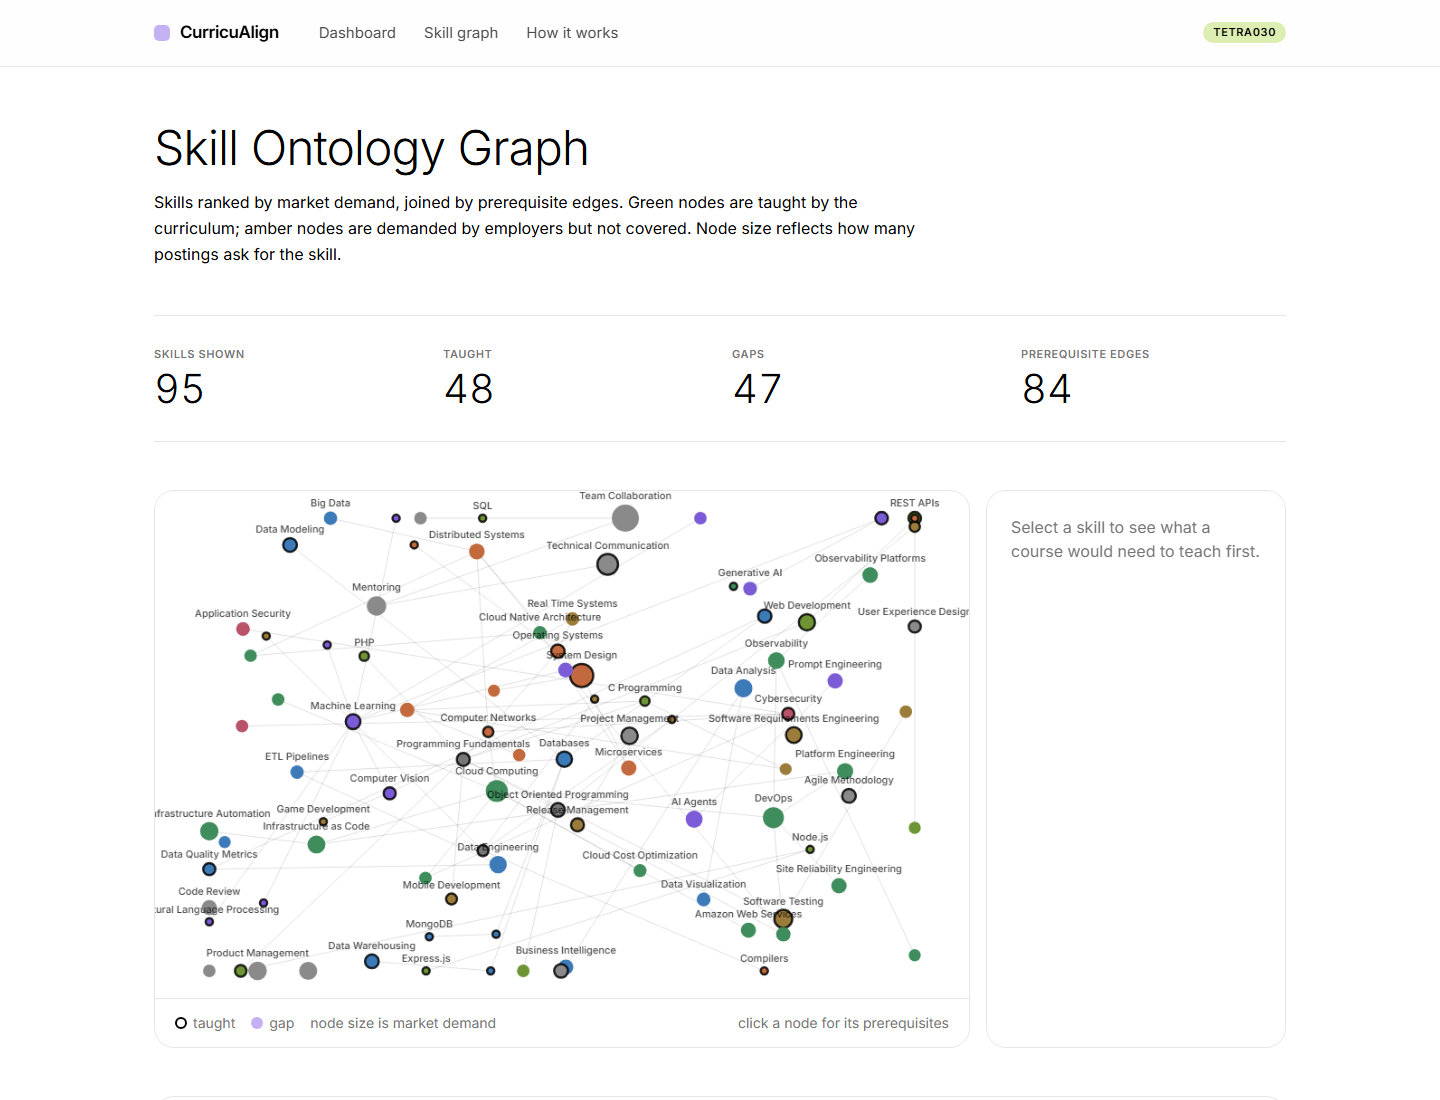
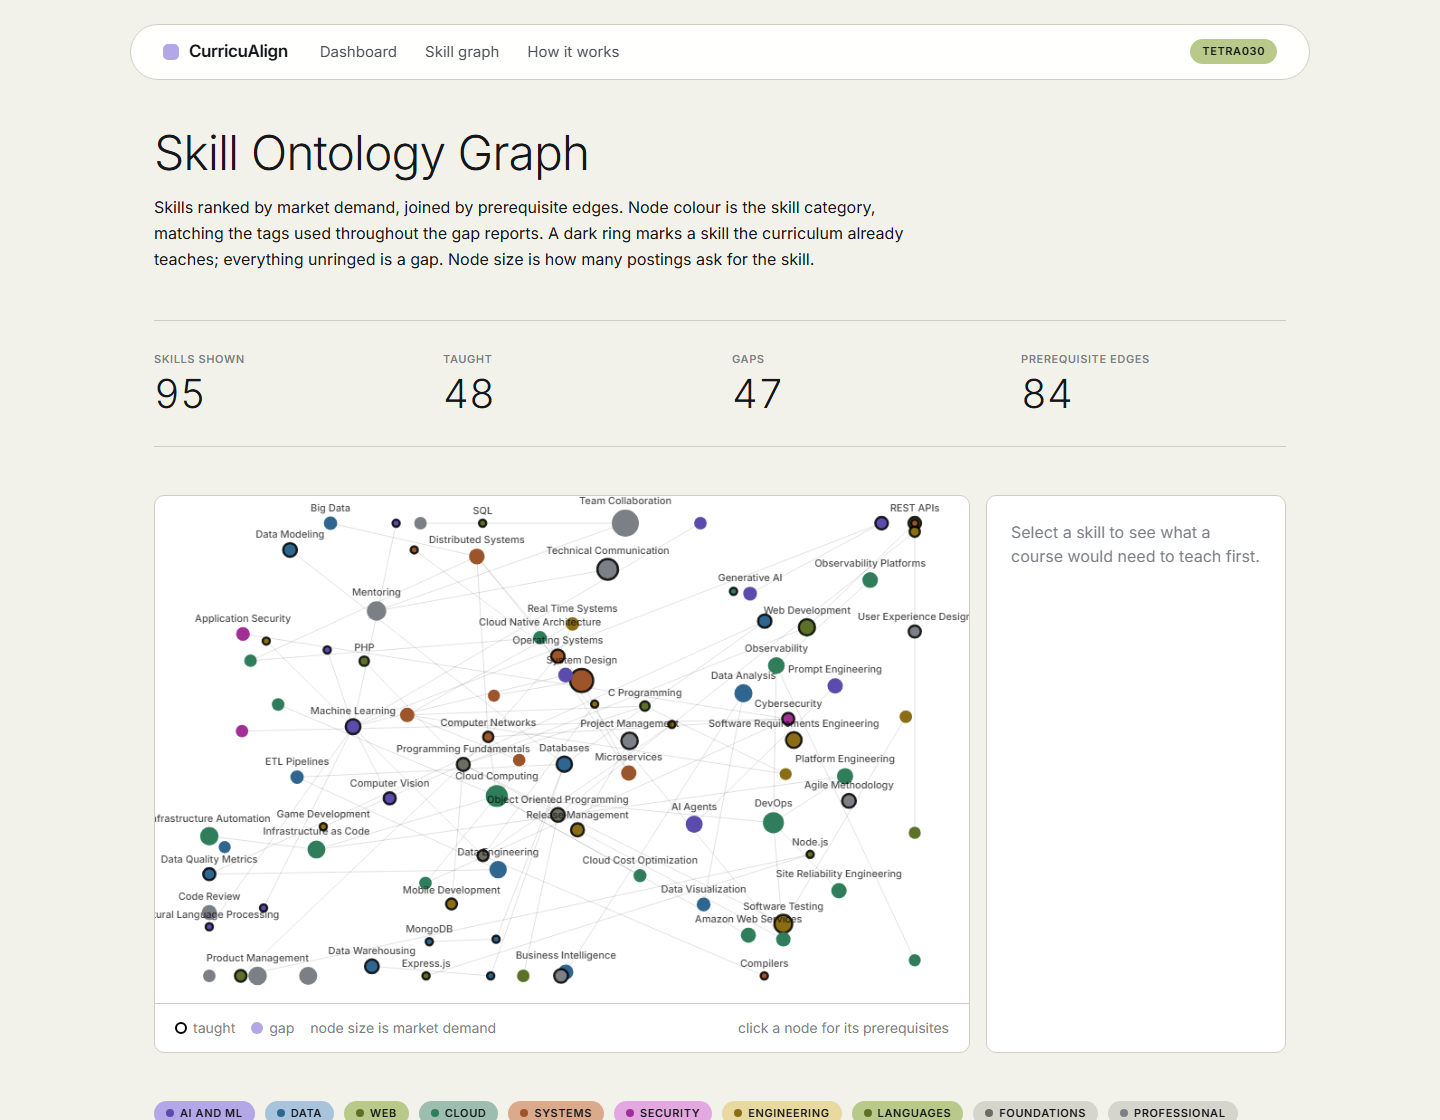
TETRA030: Refresh README with real results and current screenshots
Screenshots were captured before the palette and scoring changes and no
longer matched the running application. All four are recaptured.

The README now leads with results from the real curriculum: eight MSU
Baroda BCA syllabi scored against 150 job postings, with the full ranking
from Web Application Development at 50.0 down to the programme-level
outcome document at 7.8.

Adds a section explaining what the alignment score measures and why the
denominator is a course's own subject area rather than the whole market,
since a score out of 100 against total tech demand would imply a failing
grade for every course ever written.

Every figure was checked against the data before committing: skill,
alias, and edge counts against the taxonomy file, posting count against
the snapshot, and course scores against the live API.

diff --git a/README.md b/README.md
@@ -23,9 +23,34 @@ A keyword diff reports that a syllabus lacks Retrieval Augmented Generation. Tha
 | 3 | Data Structures, Deep Learning |
 | 4 | Machine Learning, Optimization, Programming Fundamentals |
 
-So a recommendation becomes *"you cannot teach RAG until this chain is covered, in this order"* rather than *"you are missing RAG"*. Adding Kubernetes to a course already teaching Docker is one hop and cheap; adding RAG to a course covering none of its prerequisites is a different conversation entirely.
+A recommendation becomes *"you cannot teach RAG until this chain is covered, in this order"* rather than *"you are missing RAG"*. Adding Kubernetes to a course already teaching Docker is one hop and cheap; adding RAG to a course covering none of its prerequisites is a different conversation entirely.
 
-That distinction is also the answer to **why a graph database**: it is a variable-length path search, which a relational schema answers only with a recursive query that degrades with every hop.
+That is also the answer to **why a graph database**: it is a variable-length path search, which a relational schema answers only with a recursive query that degrades with every hop.
+
+---
+
+## Audited against a real curriculum
+
+Eight actual BCA course syllabi from The Maharaja Sayajirao University of Baroda, compared against 150 real job postings.
+
+| Alignment | Course | Teaches | Gaps |
+|---|---|---|---|
+| 50.0 | Web Application Development | 10 | 73 |
+| 22.8 | Oracle DBA | 8 | 70 |
+| 22.7 | Artificial Intelligence | 13 | 71 |
+| 19.7 | Software Engineering 2 | 10 | 71 |
+| 17.4 | Application Frameworks in .NET | 8 | 72 |
+| 13.6 | Mobile Application Development | 8 | 71 |
+| 11.4 | Unix Systems Programming | 9 | 72 |
+| 7.8 | Course Outcome (programme-level) | 5 | 71 |
+
+Extraction is verifiable rather than asserted. The Artificial Intelligence syllabus yields Machine Learning, Deep Learning, Computer Vision, Natural Language Processing, and Reinforcement Learning. Web Application Development yields JavaScript, Node.js, MongoDB, REST APIs, and Express.
+
+### Reading the alignment score
+
+Each course is scored against demand **in its own subject area**, not against the whole tech market. This matters: a single course covers three to twelve percent of total market demand, which is entirely normal, but presenting that as a score out of 100 would imply a failing grade for every course ever written.
+
+Every report carries a `scored_against` field naming the subject areas used as the denominator, so the number can be interpreted rather than taken on faith.
 
 ---
 
@@ -39,7 +64,7 @@ Every gap cites real posting counts and its distance from what the course alread
 
 ## Skill ontology graph
 
-Green nodes are taught by the curriculum, amber nodes are demanded by employers but uncovered. Node size is market demand. Clicking a node returns its prerequisite chain.
+Node colour is the skill category, matching the tags used throughout the gap reports. A dark ring marks a skill the curriculum already teaches. Node size is market demand. Clicking a node returns its prerequisite chain.
 
 ![Skill graph](docs/screenshots/skill-graph.png)
 
@@ -86,7 +111,7 @@ flowchart LR
 
 ### Stack
 
-FastAPI and Python 3.11, Next.js and TypeScript, Neo4j 5.26, ChromaDB in embedded mode, Claude API, Docker Compose. Frontend types are generated from the OpenAPI schema.
+FastAPI and Python 3.11, Next.js and TypeScript, Neo4j 5.26, ChromaDB in embedded mode, Claude API, Docker Compose. Frontend types are generated from the OpenAPI schema, so the two halves cannot drift.
 
 ---
 
@@ -135,11 +160,13 @@ docker compose exec backend pytest tests/ -v
 
 **Soft skills are down-weighted, not censored.** Ranking by raw posting frequency put Team Collaboration and Mentoring above every technical gap. Both are genuine market signal, but "add teamwork to your database course" is not advice a curriculum committee can act on.
 
+**Colour carries information.** Each skill category owns a block colour, so a gap card, a category tag, and a graph node all agree on what "cloud" or "data" looks like. Colour that shifts between views is decoration; colour that holds is information. The design system is documented in `frontend/DESIGN.md`.
+
 ---
 
 ## Bugs the tests caught
 
-These are worth stating because each produced a plausible-looking wrong number that would have survived a demo unnoticed.
+Each of these produced a plausible-looking wrong number that would have survived a demo unnoticed.
 
 **The health score ran backwards.** Adding twenty trivial gaps to one critical gap raised the score from 5 to 73 — making a curriculum worse made it look better. A normalized weighted mean was letting a long tail dilute the average. Replaced with an unnormalized rank-decay penalty, so additional gaps can only lower the score.
 
@@ -151,6 +178,8 @@ These are worth stating because each produced a plausible-looking wrong number t
 | Unrelated syllabus prose | 0.554 - 0.619 |
 
 At 0.35, *"the cafeteria serves lunch at noon"* matched Service Mesh at 0.565 and would have entered a gap report as a phantom skill with fabricated evidence. Recalibrated to 0.63, inside the separation gap, with `scripts/calibrate_threshold.py` reproducing the measurement.
+
+**Every course scored the same.** All eight landed between 16 and 18 out of 100 with exactly 40 gaps — and that 40 was an artifact of a query limit every course hit, not a finding. Fixed by raising the limit, adding a demand floor that drops the long tail (43 of 170 demanded skills were named by a single posting), and scoring against each course's own subject area. The spread went from six points to forty-two.
 
 **Neo4j raised on `shortestPath`** when a demanded skill was also a taught skill, because start and end resolved to the same node. Not an edge case: it happens for every skill the curriculum already covers, which is exactly what coverage measurement needs.
 
@@ -172,10 +201,13 @@ backend/app/taxonomy/    canonical skill taxonomy and alias resolver
 backend/app/pipeline/    the six pipeline stages
 backend/app/db/          Neo4j schema, writer, and gap queries
 backend/app/api/         FastAPI endpoints
-backend/tests/           129 tests
+backend/tests/           132 tests
 frontend/app/            four screens
+frontend/DESIGN.md       design system reference
 scripts/                 job fetching and threshold calibration
 docs/superpowers/        design specification and implementation plan
+data/syllabi/            eight real BCA course syllabi
+data/jobs_snapshot.json  305 real technical job postings
 ```
 
 Job market data from [Arbeitnow](https://www.arbeitnow.com) and [Remotive](https://remotive.com).
